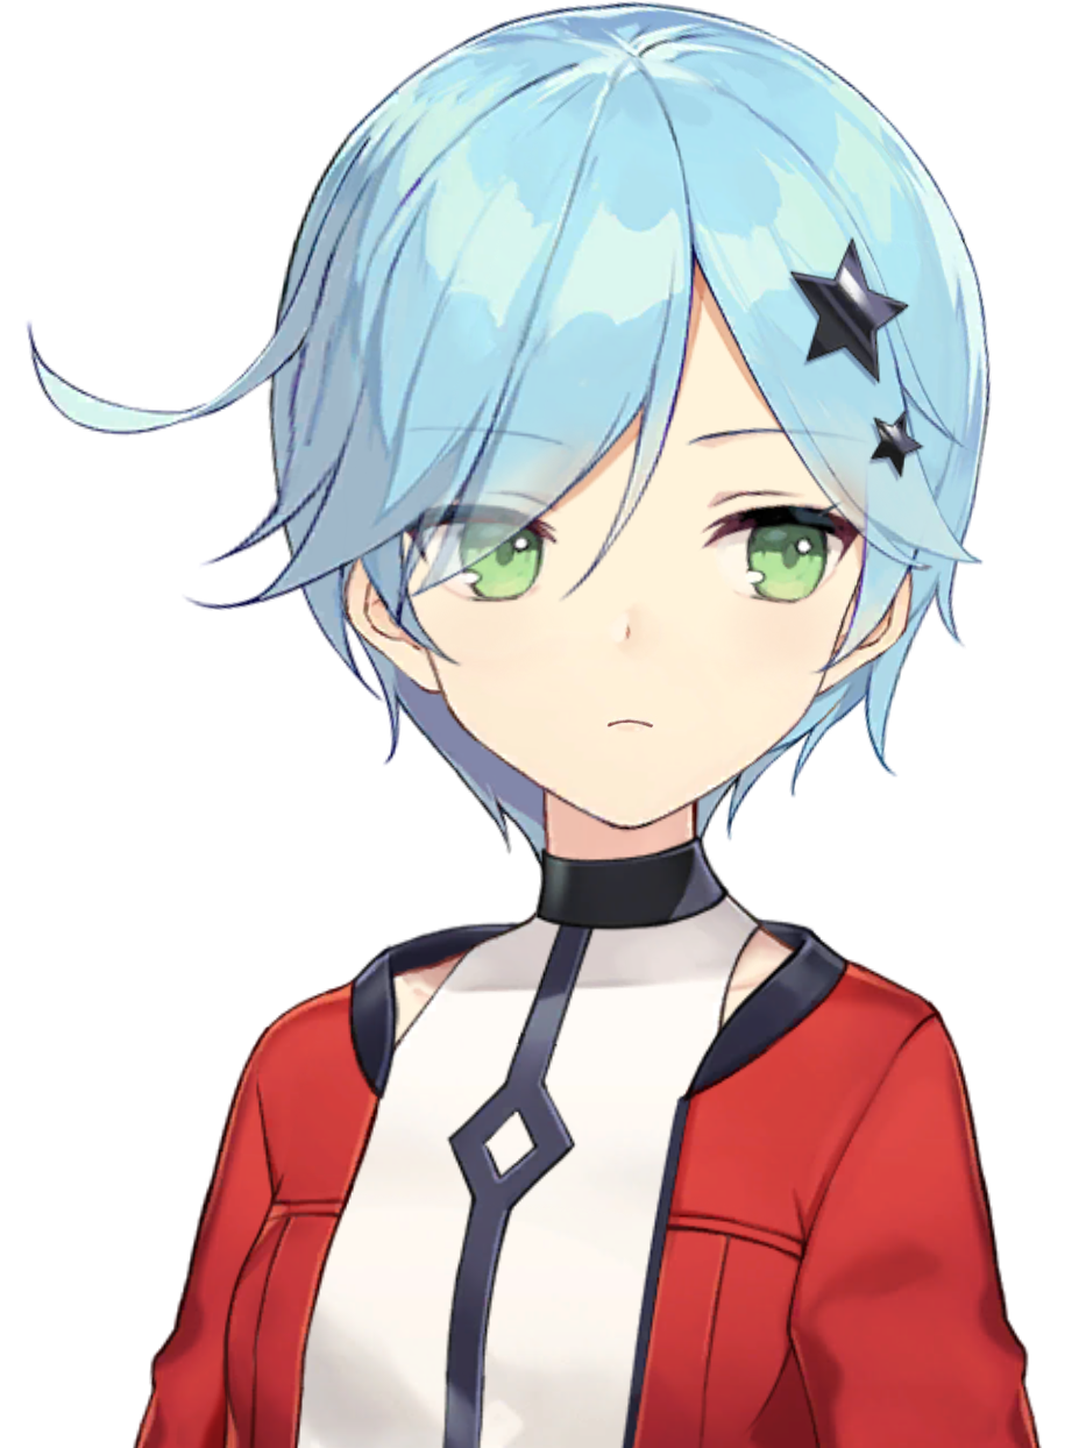
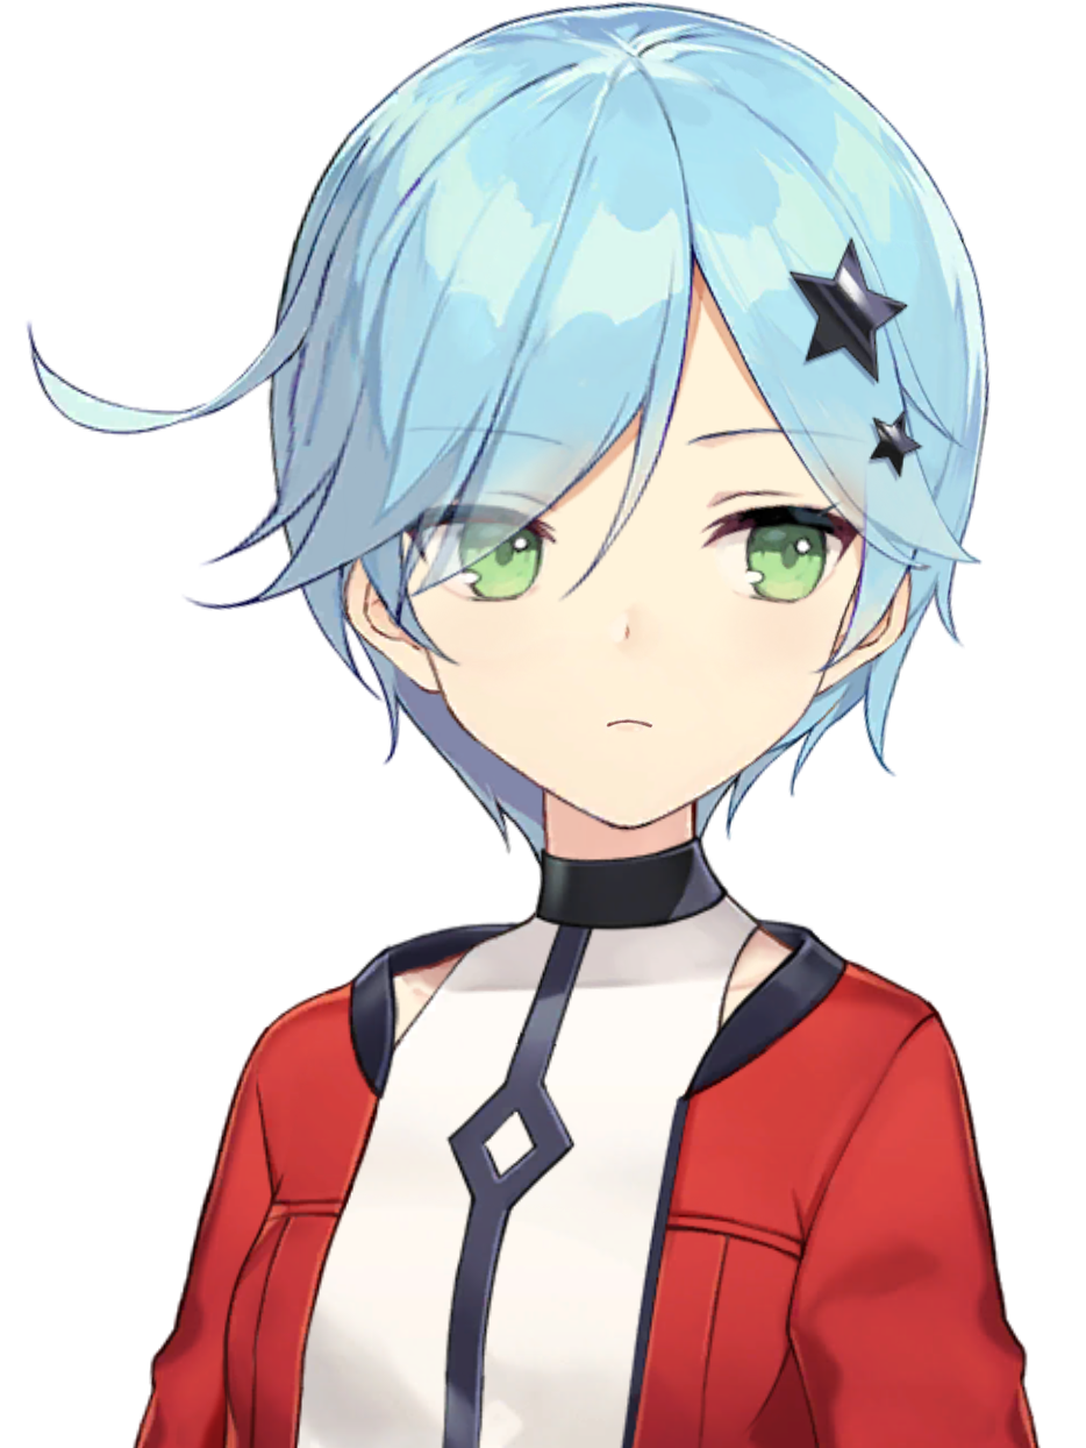
画板解除 1086 锁定：反解取框参数后按源头原生像素重出（cat_paws 1.7x），回归验证 1080p 画面无变化

diff --git a/tools/plate_bake.py b/tools/plate_bake.py
@@ -1,0 +1,72 @@
+"""按源头最大像素重出画板：取框参数已反解，能出多大就出多大（上限 2172 宽）。
+
+带一个容差：f_bust 当年“裁掉最后一行”，纯参数拟合会有 1 行偏移，所以加 ±6 px 平移搜索。
+"""
+import json
+import sys
+from PIL import Image
+import numpy as np
+
+CAP = 2172            # 2 倍设计基准，超过这个尺寸对 1080p 没有意义，对 4K 也够
+FIT = {
+    'f_profile': ('out/_lib/plate_profile.png', 0.6, 0.0, 0.5),
+    'boy_bust': ('out/_lib/plate_boy.png', 0.75, 0.0, 0.5),
+    'man_bust': ('out/_lib/plate_man.png', 0.75, 0.0, 0.5),
+    'cat_bust': ('out/_lib/plate_cat.png', 0.75, 0.0, 0.5),
+    'cat_paws': ('out/_lib/plate_paws7.png', 0.9, 0.0, 0.5),
+}
+
+
+def crop_box(im, zoom, top, cx, ar, dx=0, dy=0):
+    bb = im.getbbox()
+    bx, by, br, bbot = bb
+    bw, bh = br - bx, bbot - by
+    cw, ch = bw * zoom, bw * zoom * ar
+    x0, y0 = bx + bw * cx - cw / 2 + dx, by + bh * top + dy
+    return (int(round(x0)), int(round(y0)), int(round(x0 + cw)), int(round(y0 + ch)))
+
+
+def fit_shift(name, src, zoom, top, cx):
+    """在 (±6, ±6) 内微调，取最贴近现画板的一组。"""
+    plate = Image.open(f'assets/character/{name}.png').convert('RGBA').resize((271, 361), Image.LANCZOS)
+    im = Image.open(src).convert('RGBA')
+    B = np.asarray(plate, dtype=np.float32)
+    best = None
+    for dx in range(-6, 7, 2):
+        for dy in range(-6, 7, 2):
+            box = crop_box(im, zoom, top, cx, 1448 / 1086, dx, dy)
+            c = im.crop(box).resize((271, 361), Image.LANCZOS)
+            A = np.asarray(c, dtype=np.float32)
+            m = (B[..., 3:4] / 255.0)
+            s = float((np.abs(A[..., :3] - B[..., :3]) * m).mean())
+            if best is None or s < best[0]:
+                best = (s, dx, dy)
+    return best
+
+
+def bake(name, src, zoom, top, cx, dx=0, dy=0):
+    im = Image.open(src).convert('RGBA')
+    ar = 1448 / 1086
+    bx, by, br, bbot = im.getbbox()
+    bw = br - bx
+    natural = int(round(bw * zoom))                 # 取框在源图里的真实宽度
+    w = min(CAP, natural)
+    if w < 1086:
+        w = 1086                                    # 比现画板还小就保持原尺寸（不降级）
+    h = int(round(w * ar))
+    box = crop_box(im, zoom, top, cx, ar, dx, dy)
+    out = im.crop(box).resize((w, h), Image.LANCZOS)
+    out.save(f'assets/character/{name}.png', optimize=True)
+    return w, h, natural
+
+
+if __name__ == '__main__':
+    for name, (src, zoom, top, cx) in FIT.items():
+        print(name, 'bake ->', bake(name, src, zoom, top, cx), flush=True)
+    for name, src, zoom, top, cx in (
+        ('f_bust', 'out/_lib/hnl_bust.png', 0.65, 0.02, 0.5),
+        ('f_reach', 'out/_lib/hnl_bust.png', 0.45, 0.1, 0.5),
+    ):
+        s, dx, dy = fit_shift(name, src, zoom, top, cx)
+        print(f'{name} shift fit score {s:.2f} dx {dx} dy {dy}', flush=True)
+        print(name, 'bake ->', bake(name, src, zoom, top, cx, dx, dy), flush=True)

diff --git a/tools/plate_refit.py b/tools/plate_refit.py
@@ -1,0 +1,61 @@
+"""反解每张画板的取框参数（zoom/top/cx），再按新尺寸重出。"""
+import json
+import sys
+from PIL import Image
+import numpy as np
+
+SRC = {
+    'f_bust': 'out/_lib/hnl_bust.png',
+    'f_eye': None,
+    'f_reach': 'out/_lib/hnl_bust.png',
+    'f_profile': 'out/_lib/plate_profile.png',
+    'boy_bust': 'out/_lib/plate_boy.png',
+    'man_bust': 'out/_lib/plate_man.png',
+    'cat_bust': 'out/_lib/plate_cat.png',
+    'cat_paws': 'out/_lib/plate_paws.png',
+}
+
+
+def cut(im, bb, w, h, zoom, top, cx):
+    bx, by, br, bbot = bb
+    bw, bh = br - bx, bbot - by
+    cw, ch = bw * zoom, bw * zoom * h / w
+    x0, y0 = bx + bw * cx - cw / 2, by + bh * top
+    box = (int(round(x0)), int(round(y0)), int(round(x0)) + int(round(cw)), int(round(y0)) + int(round(ch)))
+    return im.crop(box).resize((w, h), Image.LANCZOS)
+
+
+def score(a, b):
+    A = np.asarray(a, dtype=np.float32)
+    B = np.asarray(b, dtype=np.float32)
+    m = (A[..., 3:4] / 255.0)
+    d = np.abs(A[..., :3] - B[..., :3]) * m
+    return float(d.mean())
+
+
+def fit(name, src):
+    plate = Image.open(f'assets/character/{name}.png').convert('RGBA')
+    im = Image.open(src).convert('RGBA')
+    bb = im.getbbox()
+    if not bb:
+        print(name, 'source empty'); return None
+    best = None
+    for zoom in [round(0.45 + 0.05 * i, 2) for i in range(0, 24)]:
+        for top in [0.0, 0.02, 0.05, 0.1, 0.15, 0.2, 0.3]:
+            for cx in (0.45, 0.5, 0.55):
+                c = cut(im, bb, 1086, 1448, zoom, top, cx)
+                s = score(plate, c)
+                if best is None or s < best[0]:
+                    best = (s, zoom, top, cx)
+    print(f'{name:10s} {src:28s} score {best[0]:6.2f}  zoom {best[1]}  top {best[2]}  cx {best[3]}')
+    return best
+
+
+if __name__ == '__main__':
+    res = {}
+    for n, s in SRC.items():
+        if not s:
+            continue
+        b = fit(n, s)
+        if b: res[n] = {'src': s, 'score': b[0], 'zoom': b[1], 'top': b[2], 'cx': b[3]}
+    json.dump(res, open('out/_lib/plate_fit.json', 'w'), indent=2, ensure_ascii=False)

diff --git a/tools/plate_trace.py b/tools/plate_trace.py
@@ -1,0 +1,49 @@
+"""给剩下三张画板找源头：拿候选渲图逐个试取框，先小图快筛再确认。"""
+import glob
+import os
+from PIL import Image
+import numpy as np
+
+PLATES = ['f_bust', 'f_reach', 'cat_paws', 'f_eye']
+CAND = sorted(glob.glob('out/_lib/*.png'))
+
+
+def cut(im, bb, w, h, zoom, top, cx):
+    bx, by, br, bbot = bb
+    bw, bh = br - bx, bbot - by
+    cw, ch = bw * zoom, bw * zoom * h / w
+    x0, y0 = bx + bw * cx - cw / 2, by + bh * top
+    return im.crop((int(round(x0)), int(round(y0)), int(round(x0)) + max(1, int(round(cw))), int(round(y0)) + max(1, int(round(ch)))))
+
+
+def score(a, b):
+    A = np.asarray(a.resize((b.width, b.height), Image.LANCZOS), dtype=np.float32)
+    B = np.asarray(b, dtype=np.float32)
+    m = (B[..., 3:4] / 255.0)
+    return float((np.abs(A[..., :3] - B[..., :3]) * m).mean())
+
+
+for name in PLATES:
+    plate = Image.open(f'assets/character/{name}.png').convert('RGBA')
+    small = plate.resize((181, 241), Image.LANCZOS)
+    best = None
+    for p in CAND:
+        try:
+            im = Image.open(p)
+        except Exception:
+            continue
+        if im.mode not in ('RGBA', 'LA', 'P'):
+            continue
+        if max(im.size) < 1500:
+            continue
+        im = im.convert('RGBA')
+        bb = im.getbbox()
+        if not bb:
+            continue
+        for zoom in [round(0.4 + 0.05 * i, 2) for i in range(0, 18)]:
+            for top in (0.0, 0.02, 0.05, 0.1):
+                for cx in (0.45, 0.5, 0.55):
+                    s = score(cut(im, bb, 1086, 1448, zoom, top, cx), small)
+                    if best is None or s < best[0]:
+                        best = (s, os.path.basename(p), zoom, top, cx, im.size)
+    print(f'{name:10s} {best[1]:26s} score {best[0]:6.2f} zoom {best[2]} top {best[3]} cx {best[4]} src {best[5]}', flush=True)

diff --git a/二次创作/说明/素材库.md b/二次创作/说明/素材库.md
@@ -194,6 +194,23 @@ python tools/art_intake.py --src "<把压好的图按 <key>.png 命名的目录>
 python tools/plate_cut.py --in out\_lib\plate_cat.png --out out\_lib\try_cat.png --zoom 0.75 --top 0.0
 ```
 
+### 画板不再锁 1086：按源头原生像素重出（2026-11-18）
+
+1086×1448 是这八张图最初的交付尺寸，但它是**设计基准**，不是分辨率上限——引擎按 `art.js` 的 `REF` 把任何尺寸映射回基准，所以画板本身可以更大而不动一处 crop。
+`tools/plate_refit.py` 反解出每张的取框参数，`tools/plate_bake.py` 按「源头取框里真正有多少像素」重出（上限 2172 = 2× 基准）：
+
+| 画板 | 现在尺寸 | 取框在源图里的原生宽 | 说明 |
+|:--|:--|:--|:--|
+| `cat_paws` | 1843×2457 | 1843（`plate_paws7.png` 3000 渲图） | 原来被缩到 1086，现在 1.7× |
+| `cat_bust` | 1208×1611 | 1208（`plate_cat.png`） | 1.1× |
+| `f_bust` | 1187×1583 | 1187（`hnl_bust.png` 4096） | 1.1× |
+| `f_profile` | 1180×1573 | 1180（`plate_profile.png`） | 1.1× |
+| `boy_bust` / `man_bust` / `f_reach` | 1086×1448 | 933 / 978 / 822 | **源渲图里人物只有这么宽**，画板本来就在 1.1–1.3× 放大；再大也是插值，没有新信息 |
+
+回归验证：换成大画板后重出 100 s 那一帧，与旧成片同刻 **34.79 dB / SSIM 0.876**，与改之前的同口径数值一字不差——即 1080p 下画面无变化。
+这条结论很重要：**1080p 不缺画板分辨率**（画板在片里基本是 1:1 或略缩），大画板买到的是**深裁切（如 170.19 那张 16:9 满版从 `f_reach` 底部取）与 4K 母版**的余量；真正的硬天花板是**渲图里人物占多少像素**，那是 Live2D 贴图 2048 决定的。
+
+
 **为什么没跨角色反串**：库内 16 位全是少女，没有男性、也没有猫。拿别人去顶「少年／男人／猫」，
 原片那种「同一朵花、同一件领子」的一家人设定会立刻散掉；换成她本人的另一套装束，血缘至少是通的。
 
